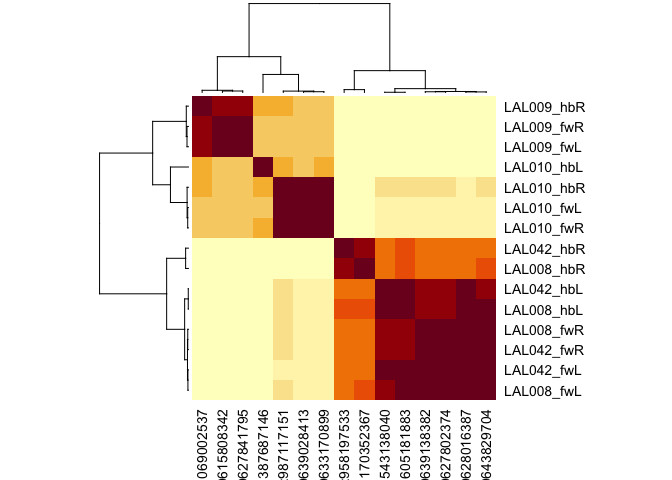
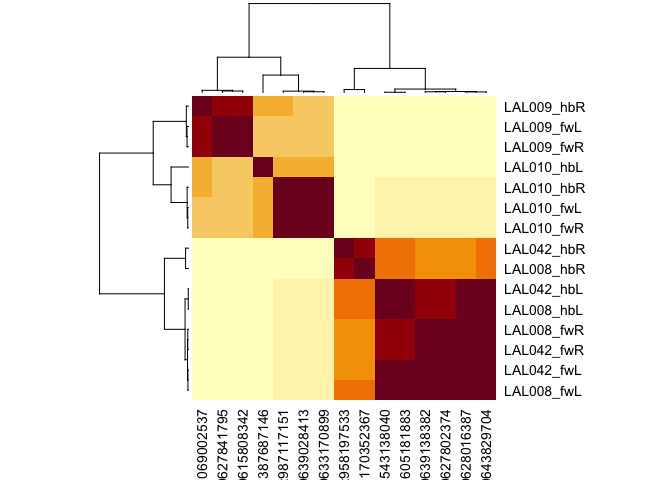
updates to readme e.g. for public manc

diff --git a/README.md b/README.md
@@ -22,11 +22,12 @@ more basic and/or dataset agnostic functionality. In case you were
 wondering, **coconat** stands for COmparative COnnectomics for the
 NATverse and **coconatfly** enables this specifically for fly datasets.
 
-Although the code is certainly already useful, it is currently highly
-experimental, so the interface should not yet been relied upon. In
-particular, it is quite likely that refactoring will abstract more
-functionality into [coconat](https://natverse.org/coconat/) as time goes
-by in order to enable the core functionality to be reused.
+Although the code is already in active use, especially for comparison of
+the hemibrain and flywire datasets, it remains experimental. Therefore
+the interface should not yet been relied upon. In particular, it is
+quite likely that refactoring will abstract more functionality into
+[coconat](https://natverse.org/coconat/) as time goes by in order to
+enable more core functionality to be reused.
 
 ## Datasets
 
@@ -34,19 +35,22 @@ At present the following datasets are supported (dataset names used in
 the package in brackets):
 
 1.  Janelia hemibrain (**hemibrain**)
-2.  Female Adult Fly Brain - FlyWire connectome (**flywire**)
-3.  Wei Lee and colleagues Female Adult Nerve Cord (**fanc**)
-4.  Janelia male Ventral Nerve Cord (**manc**)
+2.  Female Adult Fly Brain - [FlyWire connectome](https://flywire.ai/)
+    (**flywire**)
+3.  [Janelia male Ventral Nerve
+    Cord](https://www.janelia.org/project-team/flyem/manc-connectome)
+    (**manc**)
+4.  Wei Lee, John Tuthill and colleagues [Female Adult Nerve
+    Cord](https://github.com/htem/FANC_auto_recon) (**fanc**)
 5.  Janelia Male CNS (**malecns**)
 
-The first three datasets are either public or access can be requested
-subject to agreeing to certain terms of use. The Male VNC dataset is
-scheduled for imminent release in June 2023. The Male CNS dataset is
-currently in the early stages of proofreading and annotation in a
-collaboration between the
+The first four datasets are either public (hemibrain, manc) or access
+can be requested subject to agreeing to certain terms of use (flywire,
+fanc). The Male CNS dataset is currently in the early stages of
+proofreading and annotation in a collaboration between the
 [FlyEM](https://www.janelia.org/project-team/flyem) and [Cambridge
 Drosophila Connectomics Group](https://flyconnecto.me). Release is
-anticipated at the end of 2023.
+anticipated early 2024.
 
 ## Installation
 
@@ -123,10 +127,10 @@ We can also do that for multiple brain datasets
 
 ``` r
 da1meta <- cf_meta(cf_ids('DA1_lPN', datasets = c('hemibrain', 'flywire')))
-#> Updating 1767 ids
-#> flywire_rootid_cached: Looking up 1767 missing keys
-#> Updating 7520 ids
-#> flywire_rootid_cached: Looking up 7520 missing keys
+#> Updating 2469 ids
+#> flywire_rootid_cached: Looking up 2469 missing keys
+#> Updating 10494 ids
+#> flywire_rootid_cached: Looking up 10493 missing keys
 head(da1meta)
 #>           id  instance    type side class group   dataset
 #> 1 1734350788 DA1_lPN_R DA1_lPN    R  <NA>  <NA> hemibrain
@@ -259,10 +263,10 @@ seems to work very well for this purpose.
 
 ``` r
 cf_cosine_plot(cf_ids('/type:LAL0(08|09|10|42)', datasets = c("flywire", "hemibrain")))
-#> Updating 1767 ids
-#> Updating 7520 ids
-#> Matching types across datasets. Dropping 436/976 output partner types with total weight 7152/23730
-#> Matching types across datasets. Dropping 735/1358 input partner types with total weight 10483/26809
+#> Updating 2469 ids
+#> Updating 10494 ids
+#> Matching types across datasets. Dropping 469/976 output partner types with total weight 8510/23730
+#> Matching types across datasets. Dropping 750/1358 input partner types with total weight 11126/26809
 ```
 
 <img src="man/figures/README-lal-cosine-cluster-1.png" width="100%" />
@@ -277,6 +281,6 @@ constitute a single cell type of two cells / hemisphere (i.e. they
 should not have been split into two cell types in the hemibrain).
 
 You can also see that cells from one hemibrain hemisphere often cluster
-slightly oddly - this is likely due to truncation of the axons or
-dendrites of these cells or a paucity of partners from the left hand
-side of the hemibrain.
+slightly oddly (e.g. 387687146) - this is likely due to truncation of
+the axons or dendrites of these cells or a paucity of partners from the
+left hand side of the hemibrain.
